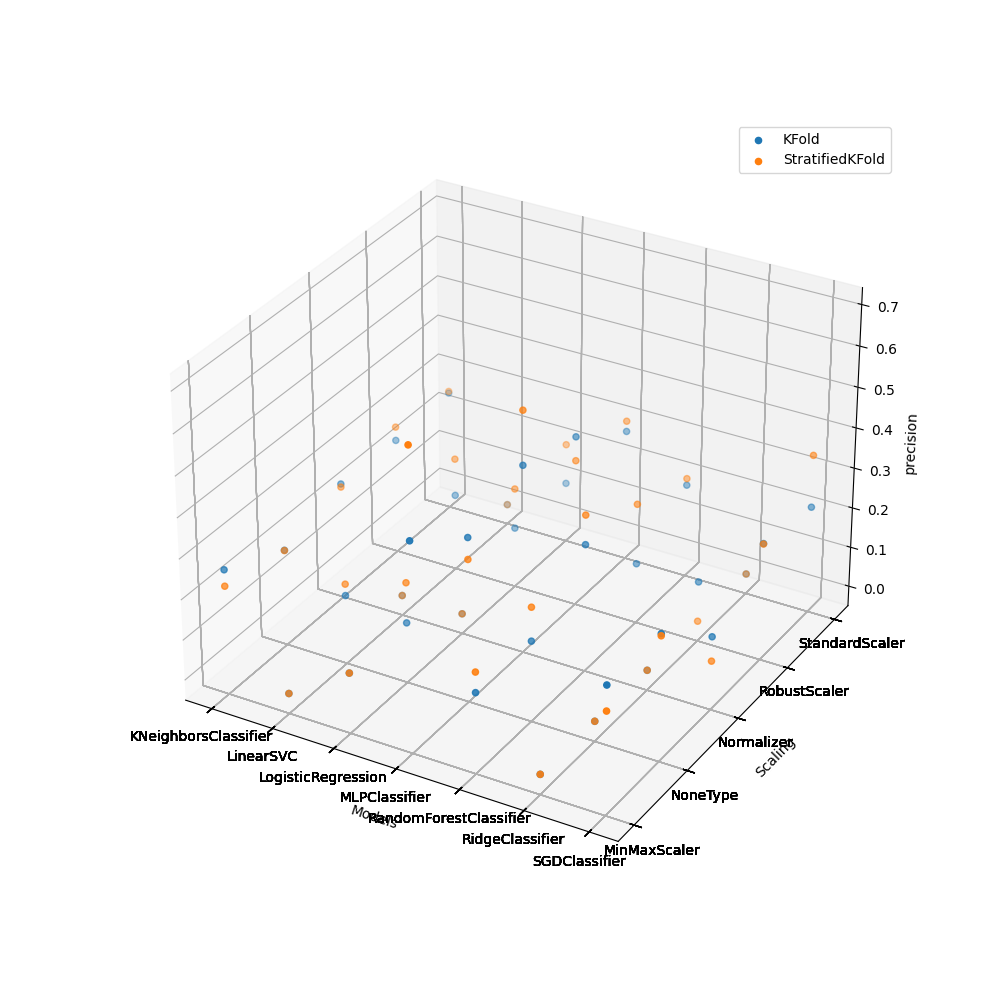
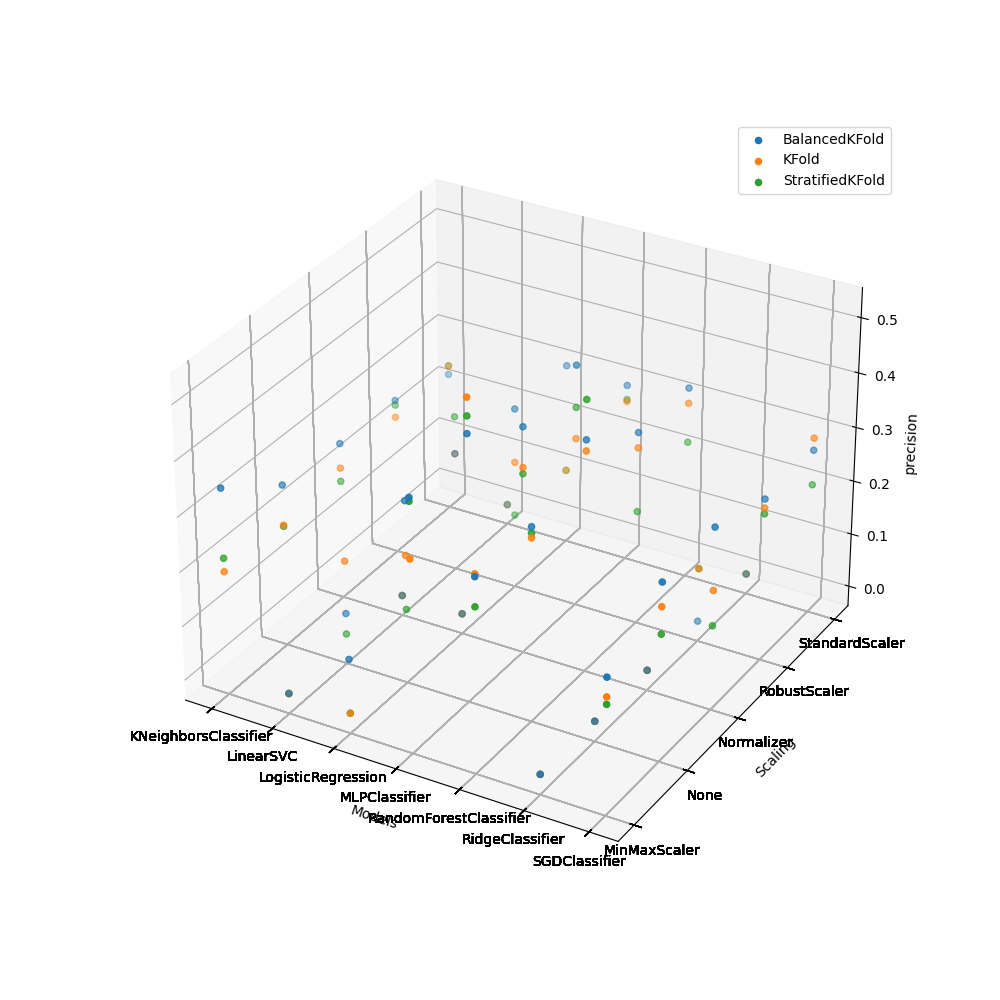
Add in new features and printing of results

diff --git a/nhanes_cvr/app.py b/nhanes_cvr/app.py
@@ -1,3 +1,5 @@
+import matplotlib
+import matplotlib.pyplot as plt
 import nhanes_cvr.combinefeatures as cf
 from sklearn import ensemble, model_selection, neighbors, neural_network, preprocessing, svm, linear_model
 from nhanes_cvr.BalancedKFold import BalancedKFold, RepeatedBalancedKFold
@@ -5,6 +7,7 @@ from sklearn.metrics import accuracy_score, f1_score, make_scorer, precision_sco
 from nhanes_dl import download, types
 import nhanes_cvr.gridsearch as gs
 import nhanes_cvr.utils as utils
+import seaborn as sns
 
 
 # CONFIGURATION VARIABLES
@@ -12,9 +15,8 @@ scores = {"precision": make_scorer(precision_score, average="binary", zero_divis
           "recall": make_scorer(recall_score, average="binary", zero_division=0),
           "f1": make_scorer(f1_score, average="binary", zero_division=0),
           "accuracy": make_scorer(accuracy_score)}
-scoring = scores.keys()
 targetScore = "precision"
-maxIter = 200
+maxIter = 500
 randomState = 42
 folds = 10
 foldRepeats = 10
@@ -24,13 +26,14 @@ foldingStrategies = [
                           random_state=randomState),
     model_selection.StratifiedKFold(
         n_splits=folds, shuffle=True, random_state=randomState),
-    # BalancedKFold(n_splits=folds, shuffle=True, random_state=random_state),
+    BalancedKFold(n_splits=folds, shuffle=True, random_state=randomState),
     # RepeatedBalancedKFold(n_splits=folds)
 ]
 
 
+# Store Model in Thunks to ensure recreation of new model every GridSearch
 models = [
-    (linear_model.LogisticRegression(random_state=randomState, max_iter=maxIter),
+    (lambda: linear_model.LogisticRegression(random_state=randomState, max_iter=maxIter),
      [
         {
             "C": [.5, 1],
@@ -44,28 +47,29 @@ models = [
         }
     ]),
 
-    (linear_model.SGDClassifier(shuffle=True, random_state=randomState),
+    (lambda: linear_model.SGDClassifier(shuffle=True, random_state=randomState),
         {"loss": ["perceptron", "log", "perceptron"], "penalty":["l1", "l2"]}),
 
-    (linear_model.RidgeClassifier(random_state=randomState), [
+    (lambda: linear_model.RidgeClassifier(random_state=randomState), [
         {"solver": [
             "sag", "svd", "lsqr", "cholesky", "sparse_cg", "sag", "saga"]},
         {"solver": ["lbfgs"], "positive": [True]}
     ]),
 
-    (ensemble.RandomForestClassifier(random_state=randomState), {
+    (lambda: ensemble.RandomForestClassifier(random_state=randomState), {
      "class_weight": [None, "balanced", "balanced_subsample"]}
      ),
 
-    (neighbors.KNeighborsClassifier(), {"weights": ["uniform", "distance"]}),
+    (lambda: neighbors.KNeighborsClassifier(),
+     {"weights": ["uniform", "distance"]}),
 
-    (neural_network.MLPClassifier(shuffle=True, max_iter=maxIter), {
+    (lambda: neural_network.MLPClassifier(shuffle=True, max_iter=maxIter), {
      "activation": ["logistic", "tanh", "relu"],
      "solver": ["lbfgs", "sgd", "adam"],
      "learning_rate":["invscaling"]
      }),
 
-    (svm.LinearSVC(random_state=42), [
+    (lambda: svm.LinearSVC(random_state=42), [
         {
             "loss": ["hinge"],
             "penalty": ['l2'],
@@ -116,50 +120,66 @@ downloadConfig = {
 }
 
 
+# Gotta check to make sure "no" is 2
 def replaceMissingWithNo(X):
-    return cf.replaceMissingWith(1, X)
+    return cf.replaceMissingWith(2, X)
+
+
+def standardYesNoProcessor(X):
+    return X.apply(lambda x: 1 if x == 1 else 0)
 
 
 # # NOTE: NHANSE dataset early on had different variables names for some features
 # # CombineFeatures is used to combine these features into a single feature
-combine_configs = [
-    # - Lab Work -
+combineConfigs = [
+    # --- Lab Work ---
     cf.rename("LBXTC", "Total_Chol", postProcess=cf.meanMissingReplacement),
     cf.rename("LBDLDL", "LDL", postProcess=cf.meanMissingReplacement),
     cf.create(["LBDHDL", "LBXHDD", "LBDHDD"], "HDL",
               postProcess=cf.meanMissingReplacement),
-    # utils.CombineFeatures.rename(
-    #     "LBDHDD", "HDL", postProcess=utils.meanReplacement),
     cf.create(["LBXSGL", "LB2GLU", "LBXGLU"], "FBG",
               postProcess=cf.meanMissingReplacement),
-    # utils.CombineFeatures.rename(
-    #     "LBXGLU", "FBG", postProcess=utils.meanReplacement),  # glucose
     # triglercyides
     cf.rename("LBXTR", "TG", postProcess=cf.meanMissingReplacement),
-    # - Questionaire -
+    # --- Questionaire ---
+    cf.rename("DIQ010", "DIABETES", postProcess=standardYesNoProcessor),
+    cf.rename("DIQ170", "TOLD_AT_RISK_OF_DIABETES",
+              postProcess=standardYesNoProcessor),
+    cf.rename("DIQ200A", "CONTROLLING_WEIGHT",
+              postProcess=standardYesNoProcessor),
     cf.rename(
-        "DIQ010", "DIABETES", replaceMissingWithNo),
+        "BPQ020", "HIGH_BLOOD_PRESSURE", postProcess=standardYesNoProcessor),
+    cf.rename("BPQ030", "HIGH_BLOOD_PRESSURE_TWO_OR_MORE",
+              postProcess=standardYesNoProcessor),
+    cf.rename("BPQ050A", "TAKEN_DRUGS_FOR_HYPERTEN",
+              postProcess=standardYesNoProcessor),
     cf.rename(
-        "BPQ020", "HYPERTEN", replaceMissingWithNo),
-    cf.rename(
-        "CDQ001", "CHEST_PAIN", replaceMissingWithNo),
-    # - Measurements -
+        "CDQ001", "CHEST_PAIN", postProcess=standardYesNoProcessor),
+    # cf.rename("DBQ700", "HEALTHY_DIET") # Not in 1999
+    # --- Measurements ---
     cf.rename("BMXBMI", "BMI", postProcess=cf.meanMissingReplacement),
     cf.rename("BMXWAIST", "WC", postProcess=cf.meanMissingReplacement),
-    cf.create(
-        ["BPXSY1", "BPXSY2", "BPXSY3", "BPXSY4"], "SYSTOLIC", combineStrategy=cf.meanCombine, postProcess=cf.meanMissingReplacement),
-    cf.create(["BPXDI1", "BPXDI2", "BPXDI3", "BPXDI4"],
-              "DIASTOLIC", combineStrategy=cf.meanCombine, postProcess=cf.meanMissingReplacement),
-    cf.rename("RIAGENDR", "GENDER", postProcess=replaceMissingWithNo),
+    cf.create(["BPXSY1", "BPXSY2", "BPXSY3", "BPXSY4"], "SYSTOLIC",
+              combineStrategy=cf.meanCombine, postProcess=cf.meanMissingReplacement),
+    cf.create(["BPXDI1", "BPXDI2", "BPXDI3", "BPXDI4"], "DIASTOLIC",
+              combineStrategy=cf.meanCombine, postProcess=cf.meanMissingReplacement),
+    cf.rename("RIAGENDR", "GENDER"),
     cf.rename("RIDAGEYR", "AGE"),
 ]
 
-
+# Download NHANES
 NHANES_DATASET = utils.cache_nhanes("./data/nhanes.csv",
                                     lambda: download.downloadCodebooksWithMortalityForYears(downloadConfig))
+
+# Process NHANES
 LINKED_DATASET = NHANES_DATASET.loc[NHANES_DATASET.ELIGSTAT == 1, :]
 DEAD_DATASET = LINKED_DATASET.loc[LINKED_DATASET.MORTSTAT == 1, :]
-withoutScalingFeatures = ["DIABETES", "HYPERTEN", "GENDER"]
+# withoutScalingFeatures = ["DIABETES", "HYPERTEN", "GENDER"]
+withoutScalingFeatures = [
+    c.combinedName for c in combineConfigs if c.postProcess.__name__ == standardYesNoProcessor.__name__]
+
+
+print(f"Not Scaling: {withoutScalingFeatures}")
 
 print(f"Entire Dataset: {NHANES_DATASET.shape}")
 print(f"Linked Mortality Dataset: {LINKED_DATASET.shape}")
@@ -167,15 +187,40 @@ print(f"Dead Dataset: {DEAD_DATASET.shape}")
 
 DEAD_DATASET.describe().to_csv("./results/dead_dataset_info.csv")
 
-Y = utils.labelCauseOfDeathAsCVR(DEAD_DATASET)
-X = cf.runCombines(combine_configs, DEAD_DATASET)
+dataset = DEAD_DATASET  # Quickly allows running on other datasets
 
+ccDF = cf.combineFeaturesToDataFrame(combineConfigs)
+ccDF.to_csv("./results/combineFeatures.csv")
+
+Y = utils.labelCauseOfDeathAsCVR(dataset)
+X = cf.runCombines(combineConfigs, dataset)
+
+# Setup Configs
 scalingConfigs = gs.createScalerConfigsIgnoreFeatures(
     scalers, X, withoutScalingFeatures)
+
 gridSearchConfigs = gs.createGridSearchConfigs(
     models, scalingConfigs, foldingStrategies, [scores])
 
+# Run Training
 res = gs.runMultipleGridSearchAsync(gridSearchConfigs, targetScore, X, Y)
+
+# Evaluate Results
 resultsDF = gs.resultsToDataFrame(res)
 gs.plotResults3d(resultsDF, targetScore)
 resultsDF.to_csv("./results/results.csv")
+
+print("\n--- FINISHED ---\n")
+print(f"Ran {len(gridSearchConfigs)} Configs")
+gs.printBestResult(res)
+
+
+# Start of correlation feature selection
+# TODO Follow article: https://towardsdatascience.com/feature-selection-with-pandas-e3690ad8504b
+plt.figure(figsize=(12, 10))
+cor = DEAD_DATASET.corr()
+# sns.heatmap(cor, annot=True, cmap=plt.cm.Reds)
+cor_target = abs(cor["MEDV"])
+relevant_features = cor_target[cor_target > 0.5]
+print(relevant_features)
+# plt.show()

diff --git a/nhanes_cvr/gridsearch.py b/nhanes_cvr/gridsearch.py
@@ -1,12 +1,12 @@
 import pandas as pd
 from sklearn import preprocessing, model_selection, linear_model
 from sklearn.model_selection import GridSearchCV
-from typing import Any, Dict, List, NamedTuple, NewType, Tuple, Union
+from typing import Any, Dict, List, NamedTuple, NewType, Tuple, Union, Callable
 from functools import reduce
 from nhanes_cvr.utils import getClassName
 
 # Sucks to have to type each one out but it makes this type safe
-Model = linear_model.LinearRegression
+Model = Callable[[], linear_model.LinearRegression]
 Scaler = Union[preprocessing.MaxAbsScaler, preprocessing.MinMaxScaler]
 Folding = Union[model_selection.KFold,  model_selection.StratifiedKFold]
 ModelParams = Dict[str, List[Any]]
@@ -66,7 +66,10 @@ class GridSearchConfig(NamedTuple):
     scoring: Scoring
 
     def __str__(self):
-        return f"{getClassName(self.model)} - {getClassName(self.scalerConfig.scaler)} - {getClassName(self.folding)}"
+        return f"{getClassName(self.model())} - {getClassName(self.scalerConfig.scaler)} - {getClassName(self.folding)}"
+
+
+GridSearchRun = Tuple[GridSearchConfig, FittedGridSearch]
 
 
 def runGridSearch(config: GridSearchConfig, target: str, X: pd.DataFrame, Y: pd.Series) -> FittedGridSearch:
@@ -76,18 +79,18 @@ def runGridSearch(config: GridSearchConfig, target: str, X: pd.DataFrame, Y: pd.
     scaled = runScaling(config.scalerConfig, X, Y)
 
     res = GridSearchCV(
-        estimator=config.model, param_grid=config.modelParams, cv=config.folding,
+        estimator=config.model(), param_grid=config.modelParams, cv=config.folding,
         refit=target, scoring=config.scoring, return_train_score=True,
         n_jobs=10)
 
     return res.fit(scaled, Y)
 
 
-def runMultipleGridSearchs(configs: List[GridSearchConfig], target: str, X: pd.DataFrame, Y: pd.Series) -> List[Tuple[GridSearchConfig, FittedGridSearch]]:
+def runMultipleGridSearchs(configs: List[GridSearchConfig], target: str, X: pd.DataFrame, Y: pd.Series) -> List[GridSearchRun]:
     return [(c, runGridSearch(c, target, X, Y)) for c in configs]
 
 
-def runMultipleGridSearchAsync(configs: List[GridSearchConfig], target: str, X: pd.DataFrame, Y: pd.Series, ) -> List[Tuple[GridSearchConfig, FittedGridSearch]]:
+def runMultipleGridSearchAsync(configs: List[GridSearchConfig], target: str, X: pd.DataFrame, Y: pd.Series, ) -> List[GridSearchRun]:
     import concurrent.futures
 
     with concurrent.futures.ThreadPoolExecutor(max_workers=4) as executor:
@@ -107,21 +110,21 @@ def createGridSearchConfigs(modelConfigs: List[Tuple[Model, ModelParams]],
             ]
 
 
-def resultsStoredForConfig(config: GridSearchConfig) -> List[str]:
+def resultsScores(result: FittedGridSearch) -> List[str]:
     """
     Returns List of all names of results stored in FittedGridSearch
     """
     types = ["test", "train"]
 
-    return [f"mean_{x}_{y}" for x in types for y in config.scoring]
+    return [f"mean_{t}_{score}" for t in types for score in list(result.scorer_)]
 
 
 def resultToDataFrame(config: GridSearchConfig, res: FittedGridSearch) -> Results:
     best = res.best_index_
-
-    names = resultsStoredForConfig(config)
+    # Could add scoring method to df
+    names = resultsScores(res)
     runInfo = [getClassName(x)
-               for x in [config.model, config.scalerConfig.scaler, config.folding]]
+               for x in [config.model(), config.scalerConfig.scaler, config.folding]]
     row = runInfo + [res.cv_results_[x][best] for x in names]
     columns = ["model", "scaler", "folding"] + names
 
@@ -156,6 +159,24 @@ def plotResults3d(res: Results, score: str):
     plt.close()
 
 
-def get_best(results: List[Tuple[GridSearchConfig, FittedGridSearch]]) -> Tuple[GridSearchConfig, FittedGridSearch]:
+def getBestResult(results: List[GridSearchRun]) -> GridSearchRun:
+    def compare(a: GridSearchRun, b: GridSearchRun):
+        return a if a[1].best_score_ > b[1].best_score_ else b
 
-    return results[0]
+    return reduce(compare, results)
+
+
+def printResult(result: GridSearchRun) -> None:
+    conf, res = result
+    print(f"Config = {conf}")
+    print(f"Best Score: {res.best_score_} using {res.refit}")
+    scores = resultsScores(res)
+    scoreValues = [res.cv_results_[x][res.best_index_] for x in scores]
+    print(list(zip(scores, scoreValues)))
+
+    return
+
+
+def printBestResult(results: List[GridSearchRun]):
+    best = getBestResult(results)
+    printResult(best)

diff --git a/nhanes_cvr/utils.py b/nhanes_cvr/utils.py
@@ -1,18 +1,19 @@
 import functools
 import os
-from typing import Callable, List, Tuple
+from typing import Callable
 import numpy as np
 import pandas as pd
 from scipy import stats
-from typing import NamedTuple
 from nhanes_dl import types
-from sklearn.impute import SimpleImputer
 
 
 def const(x): return x
 
 
 def getClassName(x) -> str:
+    if x is None:
+        return "None"
+
     return x.__class__.__name__
 
 
@@ -32,17 +33,18 @@ def labelCauseOfDeathAsCVR(nhanse_dataset: pd.DataFrame) -> pd.Series:
     # 1 is Diesease of heart
     # 5 is Cerebrovascular Diseases
 
+    def isCVR(X): return X.UCOD_LEADING == 1 or X.UCOD_LEADING == 5
+
     monthsSinceFollowUp = 326 * .5
     return nhanse_dataset.agg(lambda x: 1 if x.PERMTH_EXM <= monthsSinceFollowUp
-                              and (x.UCOD_LEADING == 1 or
-                                   x.UCOD_LEADING == 5) else 0, axis=1)
+                              and isCVR(x) else 0, axis=1)
 
-    # return nhanse_dataset.agg(lambda x: 1 if (x.UCOD_LEADING == 1 or x.UCOD_LEADING == 5) else 0, axis=1)
+    # return nhanse_dataset.agg(isCVR, axis=1)
 
 
-def unique(list):
+def unique(xs):
     return functools.reduce(
-        lambda l, x: l if x in l else l + [x], list, [])
+        lambda l, x: l if x in l else l + [x], xs, [])
 
 
 def ensure_directory_exists(path):

diff --git a/nhanes_cvr/combinefeatures.py b/nhanes_cvr/combinefeatures.py
@@ -60,3 +60,7 @@ def runCombine(combine: CombineFeatures, X: pd.DataFrame) -> pd.Series:
 def runCombines(combines: List[CombineFeatures], X: pd.DataFrame) -> pd.DataFrame:
     # Don't keep index, caller should decide if indexing should happen
     return pd.concat([runCombine(c, X) for c in combines], axis=1)
+
+
+def combineFeaturesToDataFrame(combines: List[CombineFeatures]) -> pd.DataFrame:
+    return pd.DataFrame([[f, n, cs.__name__, pp.__name__] for f, n, cs, pp in combines], columns=["inFeatures", "outFeature", "combinationStrategy", "postProcessing"])
